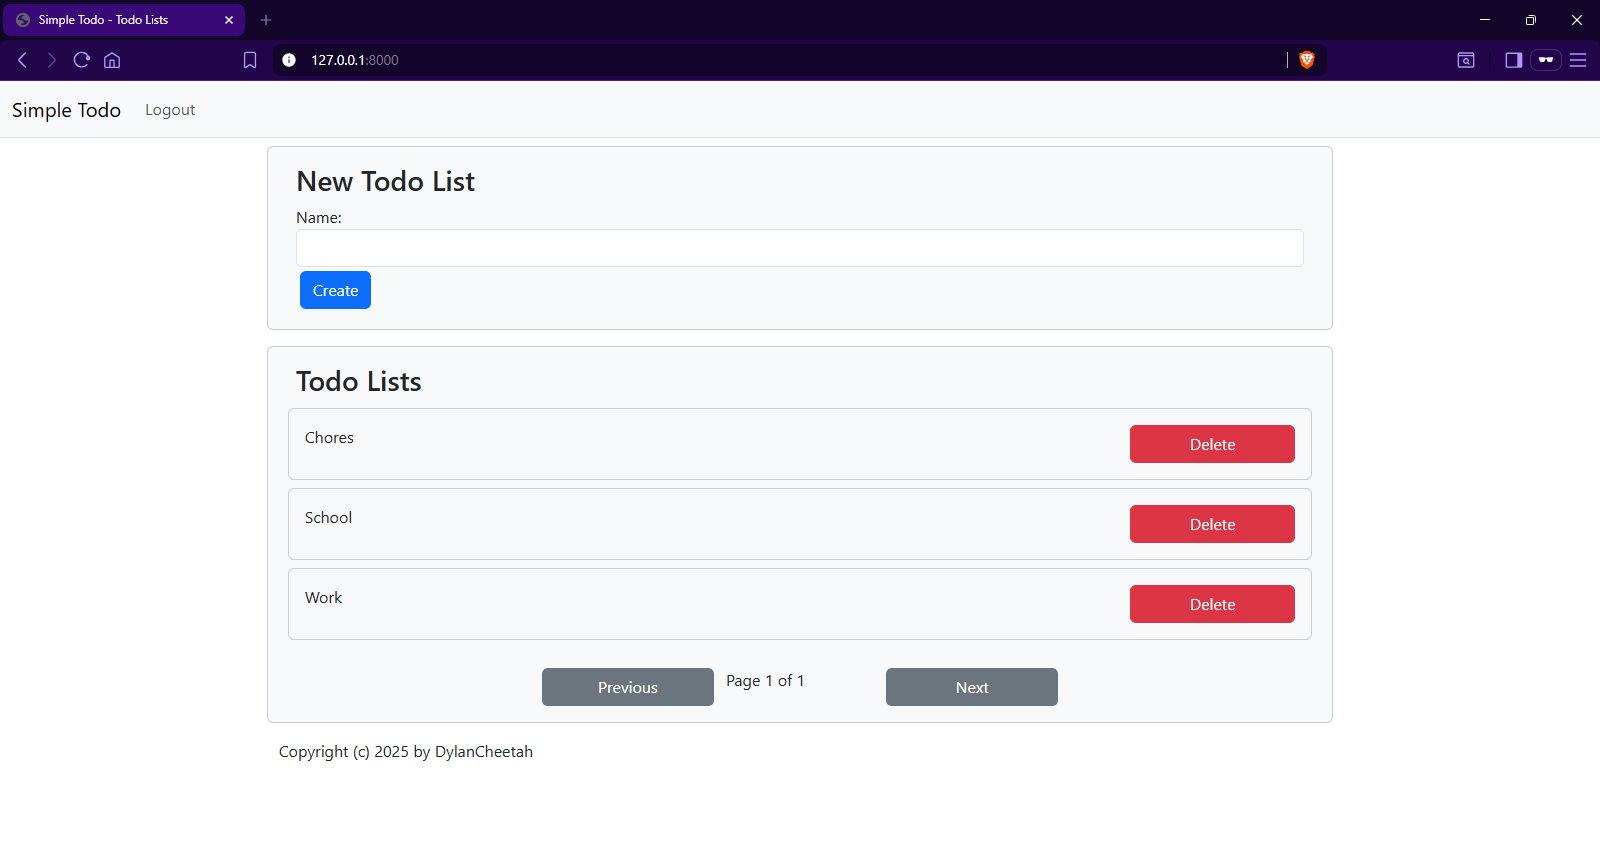
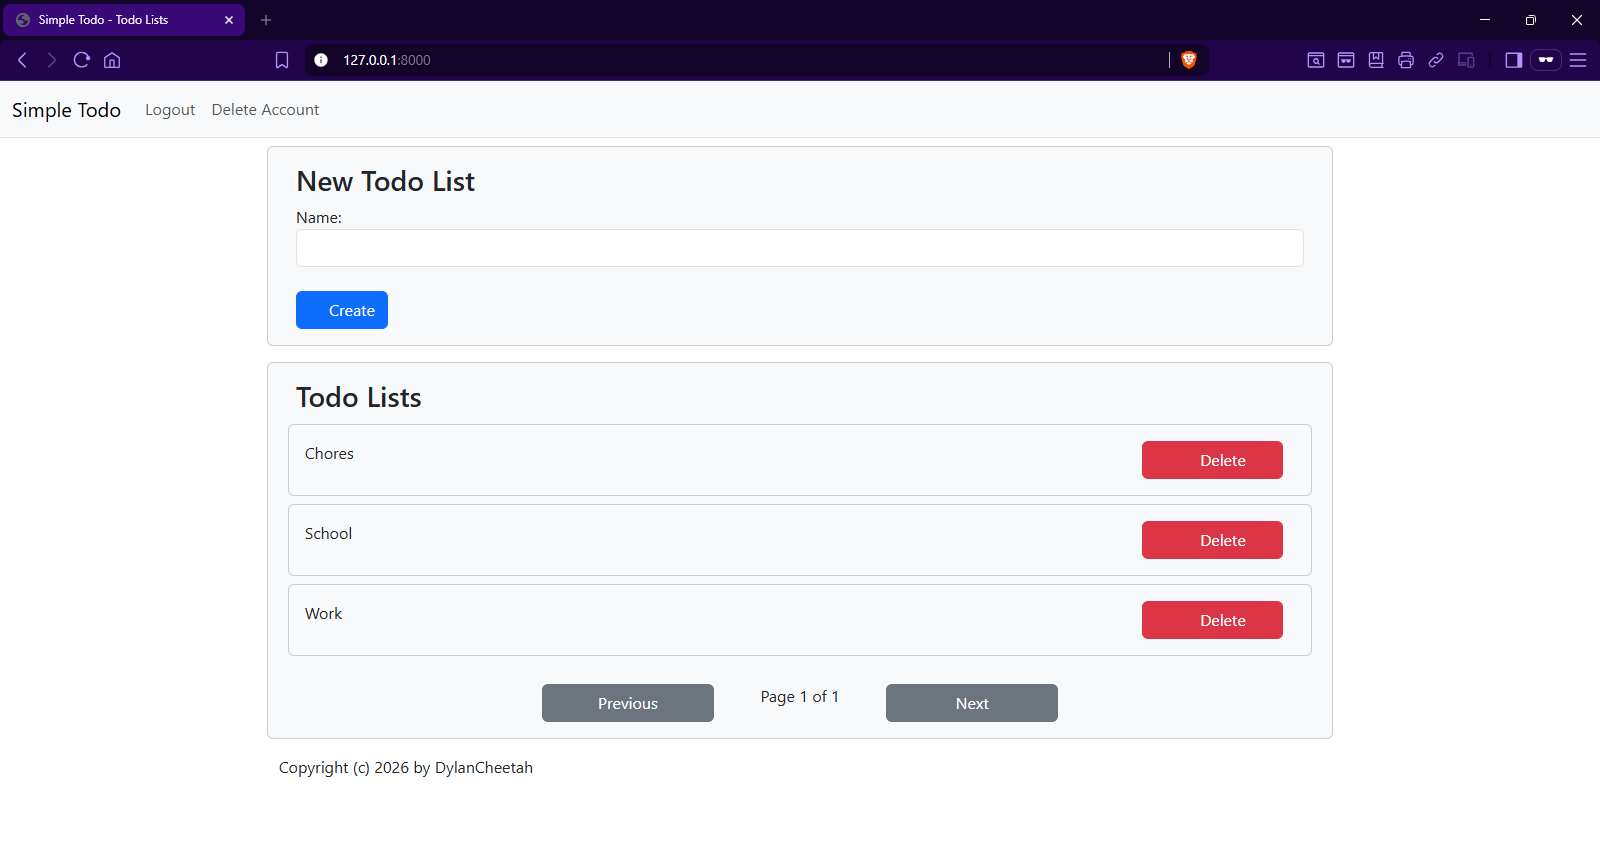
Add account deletion page.

diff --git a/simple_todo/accounts/templates/accounts/account_delete.html b/simple_todo/accounts/templates/accounts/account_delete.html
@@ -1,0 +1,20 @@
+{% extends "layout/base.html" %}
+
+{% block title %}Delete Account{% endblock %}
+
+{% block content %}
+    <div class="row justify-content-center">
+        <form class="col-lg-8 col-md-10 col-11 m-2 card bg-light"
+              action="{% url 'account-delete' %}"
+              method="POST">
+            {% csrf_token %}
+            <div class="card-body">
+                <p>Are you sure you wish to <strong>permanently</strong> delete your account?</p>
+                <div class="row justify-content-center">
+                    <button class="col-5 m-1 btn btn-danger">Yes</button>
+                    <a class="col-5 m-1 btn btn-primary" href="{% url 'todo-lists' %}">No</a>
+                </div>
+            </div>
+        </form>
+    </div>
+{% endblock %}

diff --git a/simple_todo/layout/templates/layout/navbar.html b/simple_todo/layout/templates/layout/navbar.html
@@ -20,6 +20,9 @@
                             <input class="nav-link" type="submit" value="Logout"/>
                         </form>
                     </li>
+                    <li class="nav-item">
+                        <a class="nav-link" href="{% url 'account-delete' %}">Delete Account</a>
+                    </li>
                 {% endif %}
             </ul>
         </div>

diff --git a/simple_todo/accounts/views.py b/simple_todo/accounts/views.py
@@ -1,3 +1,22 @@
+from django.contrib import messages
+from django.contrib.auth.mixins import LoginRequiredMixin
+from django.http import HttpResponseRedirect
 from django.shortcuts import render
+from django.urls import reverse
+from django.views.generic import TemplateView
 
-# Create your views here.
+
+# View Classes
+# ============
+class AccountDeleteView(LoginRequiredMixin, TemplateView):
+    template_name = "accounts/account_delete.html"
+
+    def post(self, *args, **kwargs):
+        # Delete the current user's account and return to the homepage
+        self.request.user.delete()
+        messages.add_message(
+            self.request, 
+            messages.INFO, 
+            "Your account has been successfully deleted."
+        )
+        return HttpResponseRedirect(reverse("todo-lists"))

diff --git a/simple_todo/accounts/urls.py b/simple_todo/accounts/urls.py
@@ -1,6 +1,9 @@
 from django.urls import include, path
 
+from . import views
+
 
 urlpatterns = [
-    path("", include("allauth.urls"))
+    path("", include("allauth.urls")),
+    path("delete/", views.AccountDeleteView.as_view(), name="account-delete")
 ]

diff --git a/simple_todo/simple_todo/settings.py b/simple_todo/simple_todo/settings.py
@@ -163,6 +163,9 @@ AUTHENTICATION_BACKENDS = [
     "allauth.account.auth_backends.AuthenticationBackend"
 ]
 
+# Authentication URLs
+LOGIN_REDIRECT_URL = "/"
+
 # Allauth form classes
 ACCOUNT_FORMS = {
     "login": "accounts.forms.LoginForm",

diff --git a/lessons/04-authentication.md b/lessons/04-authentication.md
@@ -47,22 +47,125 @@ MIDDLEWARE = [
 ]
 ```
 
-We also need to add the following section to `simple-todo/simple_todo/simple_todo/settings.py`:
+We also need to add the following sections to `simple-todo/simple_todo/simple_todo/settings.py`:
 ```python
 # Authentication backends
 AUTHENTICATION_BACKENDS = [
     "django.contrib.auth.backends.ModelBackend",
     "allauth.account.auth_backends.AuthenticationBackend"
 ]
+
+# Authentication URLs
+LOGIN_REDIRECT_URL = "/"
 ```
 
-Now we need to create a URL mapping for our accounts app. Create `simple-todo/simple_todo/accounts/urls.py` with the following content:
+django-allauth doesn't provide a page for deleting the current user's account, so we will need to create our own. Create a `simple-todo/simple_todo/accounts/templates/accounts/` folder. Your project structure should look like this now:
+```
+simple-todo/
+    simple_todo/
+        accounts/
+            migrations/
+            templates/
+                accounts/
+            __init__.py
+            admin.py
+            apps.py
+            models.py
+            tests.py
+            urls.py
+            views.py
+        layout/
+            migrations/
+            static/
+                layout/
+                    css/
+                        bootstrap.min.css
+                    js/
+                        bootstrap.bundle.min.js
+            templates/
+                layout/
+                    base.html
+            __init__.py
+            admin.py
+            apps.py
+            ctx_proc.py
+            models.py
+            tests.py
+            views.py
+        simple_todo/
+            __init__.py
+            asgi.py
+            settings.py
+            urls.py
+            wsgi.py
+        .env
+        .env.dist
+        db.sqlite
+        manage.py
+    venv/
+    requirements.txt
+```
+
+Then create `simple-todo/simple_todo/accounts/templates/accounts/account_delete.html` with the following content:
+```html
+{% extends "layout/base.html" %}
+
+{% block title %}Delete Account{% endblock %}
+
+{% block content %}
+    <div class="row justify-content-center">
+        <form class="col-lg-8 col-md-10 col-11 m-2 card bg-light"
+              action="{% url 'account-delete' %}"
+              method="POST">
+            {% csrf_token %}
+            <div class="card-body">
+                <p>Are you sure you wish to <strong>permanently</strong> delete your account?</p>
+                <div class="row justify-content-center">
+                    <button class="col-5 m-1 btn btn-danger">Yes</button>
+                    <a class="col-5 m-1 btn btn-primary" href="{% url 'todo-lists' %}">No</a>
+                </div>
+            </div>
+        </form>
+    </div>
+{% endblock %}
+```
+
+This page has a form which asks the user to confirm if they want to delete their account. If they click Yes, their account will be deleted. If they click No, they will be redirected to the homepage. Next we need to create a view for the account deletion page. Open `simple-todo/simple_todo/accounts/views.py` and modify it like this:
+```python
+from django.contrib import messages
+from django.contrib.auth.mixins import LoginRequiredMixin
+from django.http import HttpResponseRedirect
+from django.shortcuts import render
+from django.urls import reverse
+from django.views.generic import TemplateView
+
+
+# View Classes
+# ============
+class AccountDeleteView(LoginRequiredMixin, TemplateView):
+    template_name = "accounts/account_delete.html"
+
+    def post(self, *args, **kwargs):
+        # Delete the current user's account and return to the homepage
+        self.request.user.delete()
+        messages.add_message(
+            self.request, 
+            messages.INFO, 
+            "Your account has been successfully deleted."
+        )
+        return HttpResponseRedirect(reverse("todo-lists"))
+```
+
+`AccountDeleteView` extends `LoginRequiredMixin` and `TemplateView`. The `template_name` attribute determines which template will be rendered when the view receives an HTTP GET request. We define a `post` method which will be called when the view receives and HTTP POST request. The `post` method will delete the current user, add a message indicating the user's account was successfully deleted, and redirect to the homepage. Now we need to create a URL mapping for our accounts app. Create `simple-todo/simple_todo/accounts/urls.py` with the following content:
 ```python
 from django.urls import include, path
 
+from . import views
+
 
 urlpatterns = [
-    path("", include("allauth.urls"))
+    path("", include("allauth.urls")),
+    path("delete/", views.AccountDeleteView.as_view(), name="account-delete")
 ]
 ```
 

diff --git a/lessons/05-allauth_theme.md b/lessons/05-allauth_theme.md
@@ -1,12 +1,14 @@
 # Lesson 05: Allauth Theme
 
-At the moment our login page has no theme. We can create a theme for all of the pages provided by django-allauth by overriding the default templates used for them. The easiest way to do this is to copy the default allauth layout templates to a templates folder in our accounts app. First you need to create a `simple-todo/simple_todo/accounts/templates/` folder. Next you need to copy `simple-todo/venv/Lib/site-packages/templates/allauth/` to `simple-todo/simple_todo/accounts/templates/`. Your project structure should look like this now:
+At the moment our login page has no theme. We can create a theme for all of the pages provided by django-allauth by overriding the default templates used for them. The easiest way to do this is to copy the default allauth layout templates to a templates folder in our accounts app. First you need to copy `simple-todo/venv/Lib/site-packages/templates/allauth/` to `simple-todo/simple_todo/accounts/templates/`. Your project structure should look like this now:
 ```
 simple-todo/
     simple_todo/
         accounts/
             migrations/
             templates/
+                accounts/
+                    account_delete.html
                 allauth/
                     elements/
                     layout/
@@ -87,6 +89,9 @@ To change the overall look of every allauth page, modify the `simple-todo/simple
                                         {% csrf_token %}
                                         <input class="nav-link" type="submit" value="Logout"/>
                                     </form>
+                                </li>
+                                <li class="nav-item">
+                                    <a class="nav-link" href="{% url 'account-delete' %}">Delete Account</a>
                                 </li>
                             {% endif %}
                         </ul>

diff --git a/lessons/08-homepage.md b/lessons/08-homepage.md
@@ -106,6 +106,9 @@ At this point we haven't yet added our navigation bar to our main layout templat
                             <input class="nav-link" type="submit" value="Logout"/>
                         </form>
                     </li>
+                    <li class="nav-item">
+                        <a class="nav-link" href="{% url 'account-delete' %}">Delete Account</a>
+                    </li>
                 {% endif %}
             </ul>
         </div>
